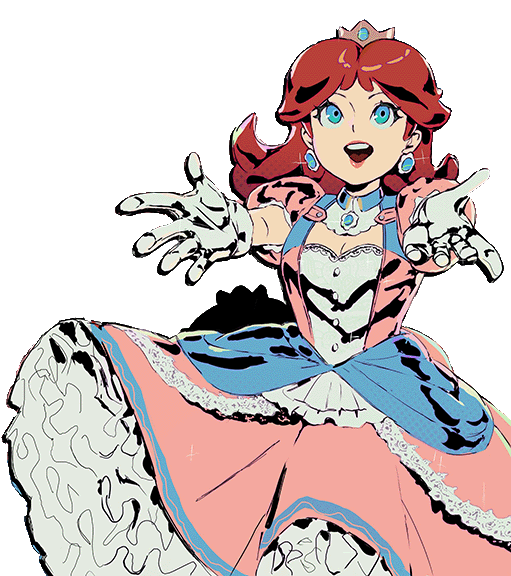
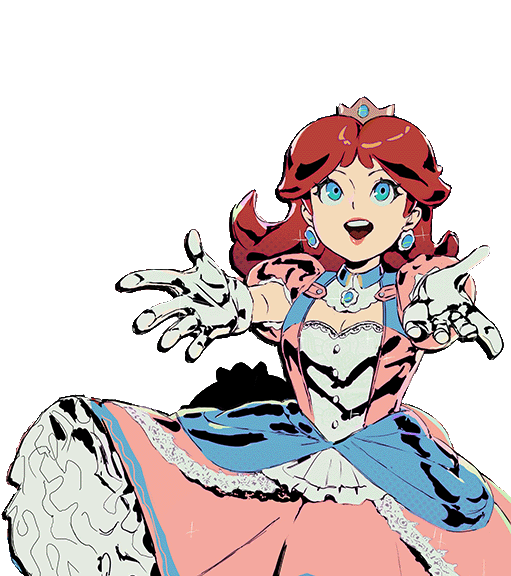
AHHHHH

diff --git a/about.html b/about.html
@@ -7,14 +7,7 @@
 <link rel="stylesheet" href="https://cdn.jsdelivr.net/npm/purecss@3.0.0/build/pure-min.css" integrity="sha384-X38yfunGUhNzHpBaEBsWLO+A0HDYOQi8ufWDkZ0k9e0eXz/tH3II7uKZ9msv++Ls" crossorigin="anonymous">
 <link href="https://fonts.googleapis.com/css2?family=Judson&display=swap" rel="stylesheet">
 <style>
-   @media screen and (max-width: 500px) {
-   p{
-   width: 500px;
-      margin:0px;
-      vertical-align: middle;
-   }
    
-   }
 </style>
 </head>
 
@@ -28,16 +21,15 @@
     <a class="active" href="about.html">About</a>
   </div>
 </div>
-<img class="pure-g" src="images/selfportrait2.jpg" alt="That's also me :)" style="width: 500px  margin: 20px; float: left" >
-<div 
-style="
+<div class="pure-g">
+<div><img class="pure-u-1-2" src="images/selfportrait2.jpg" alt="That's also me :)" style="width: 700px;  margin: 10px; padding: 30px; float: left" ></div>
+<div class="pure-u-1-2" style="
 font-size: 1.1rem;
-width: 675px;
-  text-align: left;
    line-height: 1.7rem;
-   float: right;
-   margin: 20px;">
-  <p>Hello, my name is Zelda Sinnett, professional goober. I am the proud creator of the comic series Jazz Age Fantasy and The Comic About A Loser Making Comic and the persona behing the Zelda Megami youtube channel. I am a highly driven creative with a passion for bringing my vision to the world through a variety of mediums. My goal with every project is to create something everyone will love and stick into everyone's conscious for years to come. I hope that you are impressed with my work and I look forward to working with you in the future.</p>
+   margin: :10px;
+   padding: 30px;">
+  <p>Hello, my name is Zelda Sinnett, professional goober. I am the proud creator of the comic series Jazz Age Fantasy and The Comic About A Loser Making Comic and the persona behind the Zelda Megami YouTube channel. I am a highly driven creative with a passion for bringing my vision to the world through a variety of mediums. My goal with every project is to create something everyone will love and stick into everyone's conscious for years to come. I hope that you are impressed with my work and I look forward to working with you in the future.</p>
+  </div>
   </div>
 </body>
 </html>

diff --git a/Index.html b/Index.html
@@ -11,31 +11,26 @@
 <style>
 .mainbit {
 padding: 20px;
+  position: relative;
+  top: auto;
 }
 .mainbit a{
 font-family: 'Great Vibes', cursive;
 font-size: 3.5em;
 margin-left: 40px;
 text-align: center;
+position: relative;
+text-shadow:
+ 4px 2px 0 #FFF; 
+
 }
 .mainbit li{
 font-family: Segoe, "Segoe UI", "DejaVu Sans", "Trebuchet MS", Verdana, "sans-serif";
 font-size: 1.5em;
 list-style: none;
-}
-.container {
- position: relative;
-}
-.portrait{
-width: 100%;
-    border-radius: 5px;
-    overflow: hidden;
-    object-fit: contain;
-    margin: 0px 0px 0px -20px; 
-    position: relative;
-filter: drop-shadow(-2em -10px #1a4718);
-margin: 0px 0px 0px -20px; 
-position: absolute;
+position: relative;
+ text-shadow:
+       1px 2px 0 #FFF;
 }
 
 @media screen and (max-width: 500px){
@@ -45,14 +40,30 @@ text-align: center;
 ul.mainbit{
 display: inline-block;
 text-align: center;
+body {
+ background-position: bottom;
+ background-size: 50%;
+}
+}
+.mainbit a{
+text-shadow:
+ 3px 0px 0 #FFF; 
+}
+.mainbit li{
+text-shadow:
+       2px 0px 0 #FFF,
+       0px -1px 0 #FFF;
 }
 }
 
-@media screen and (min-width: 500px){
-.portrait{
-align: right;
+body { 
+  background-image: url("images/selfportrait1.png");
+  background-repeat: no-repeat;
+  background-attachment: fixed;
+  background-position: right;
+
 }
-}
+
 </style>
 </head>
 
@@ -73,7 +84,7 @@ align: right;
 
 <div class="mainbit">
 <a>I am a</a>
-<div class="">
+<div>
 <ul class="list">
 <li>Graphic Designer</li>
 <li>Video Editor</li>
@@ -87,10 +98,8 @@ align: right;
 </div>
 <a>extraordinaire!</a>
 </div>
-<div><img class="pure-img portrait" src="images/selfportrait1.png" alt="That's me :)" height="576px">
+<div class="box"></div>
 </div>
-</div>
-
 </body>
 
 </html>
